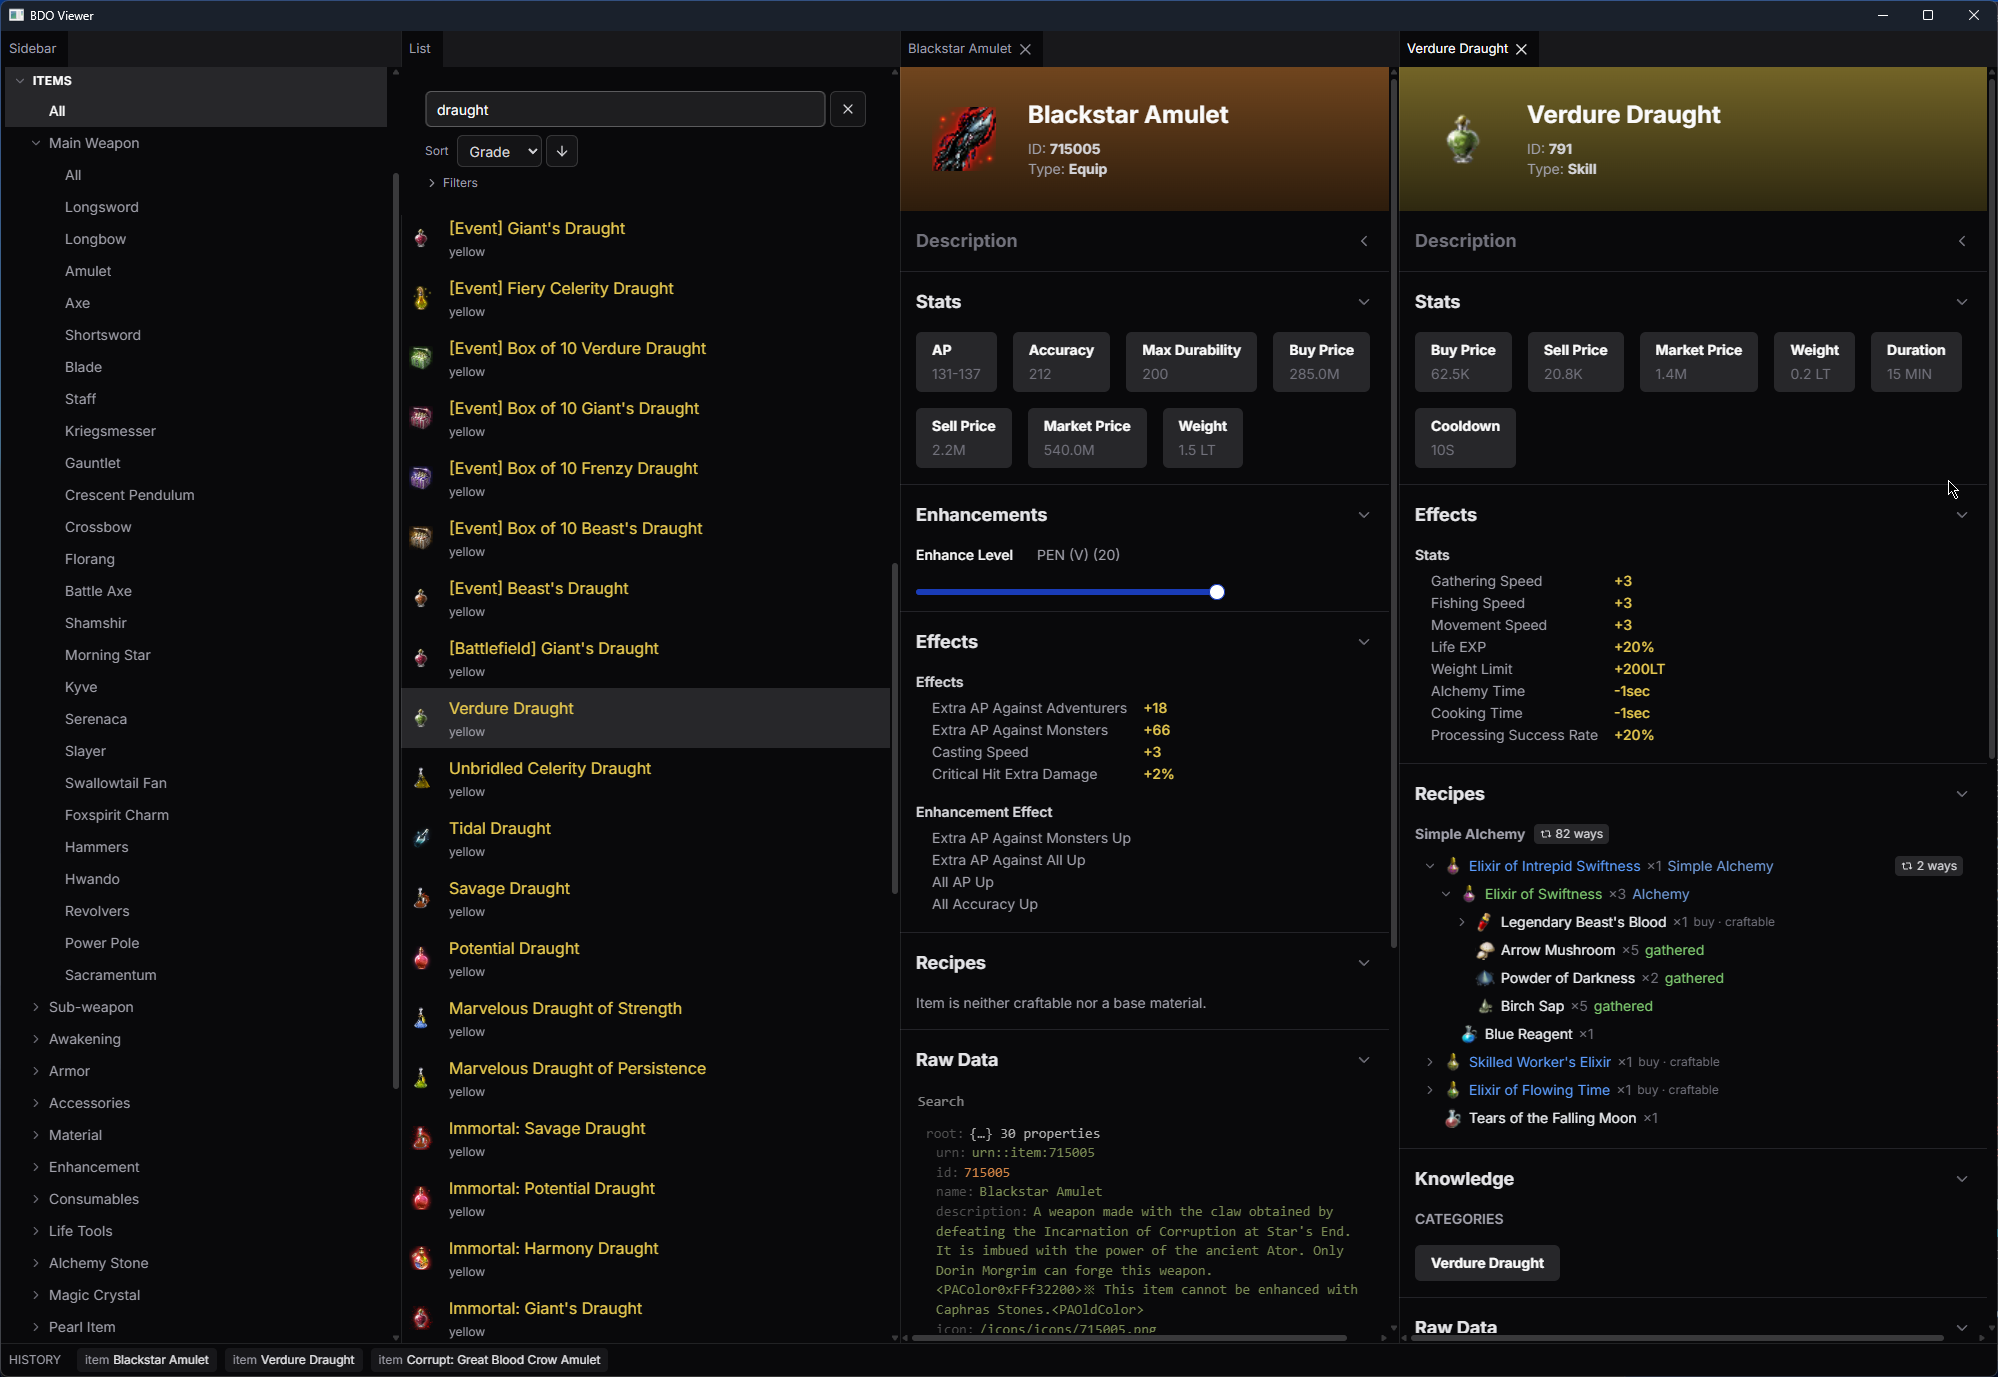
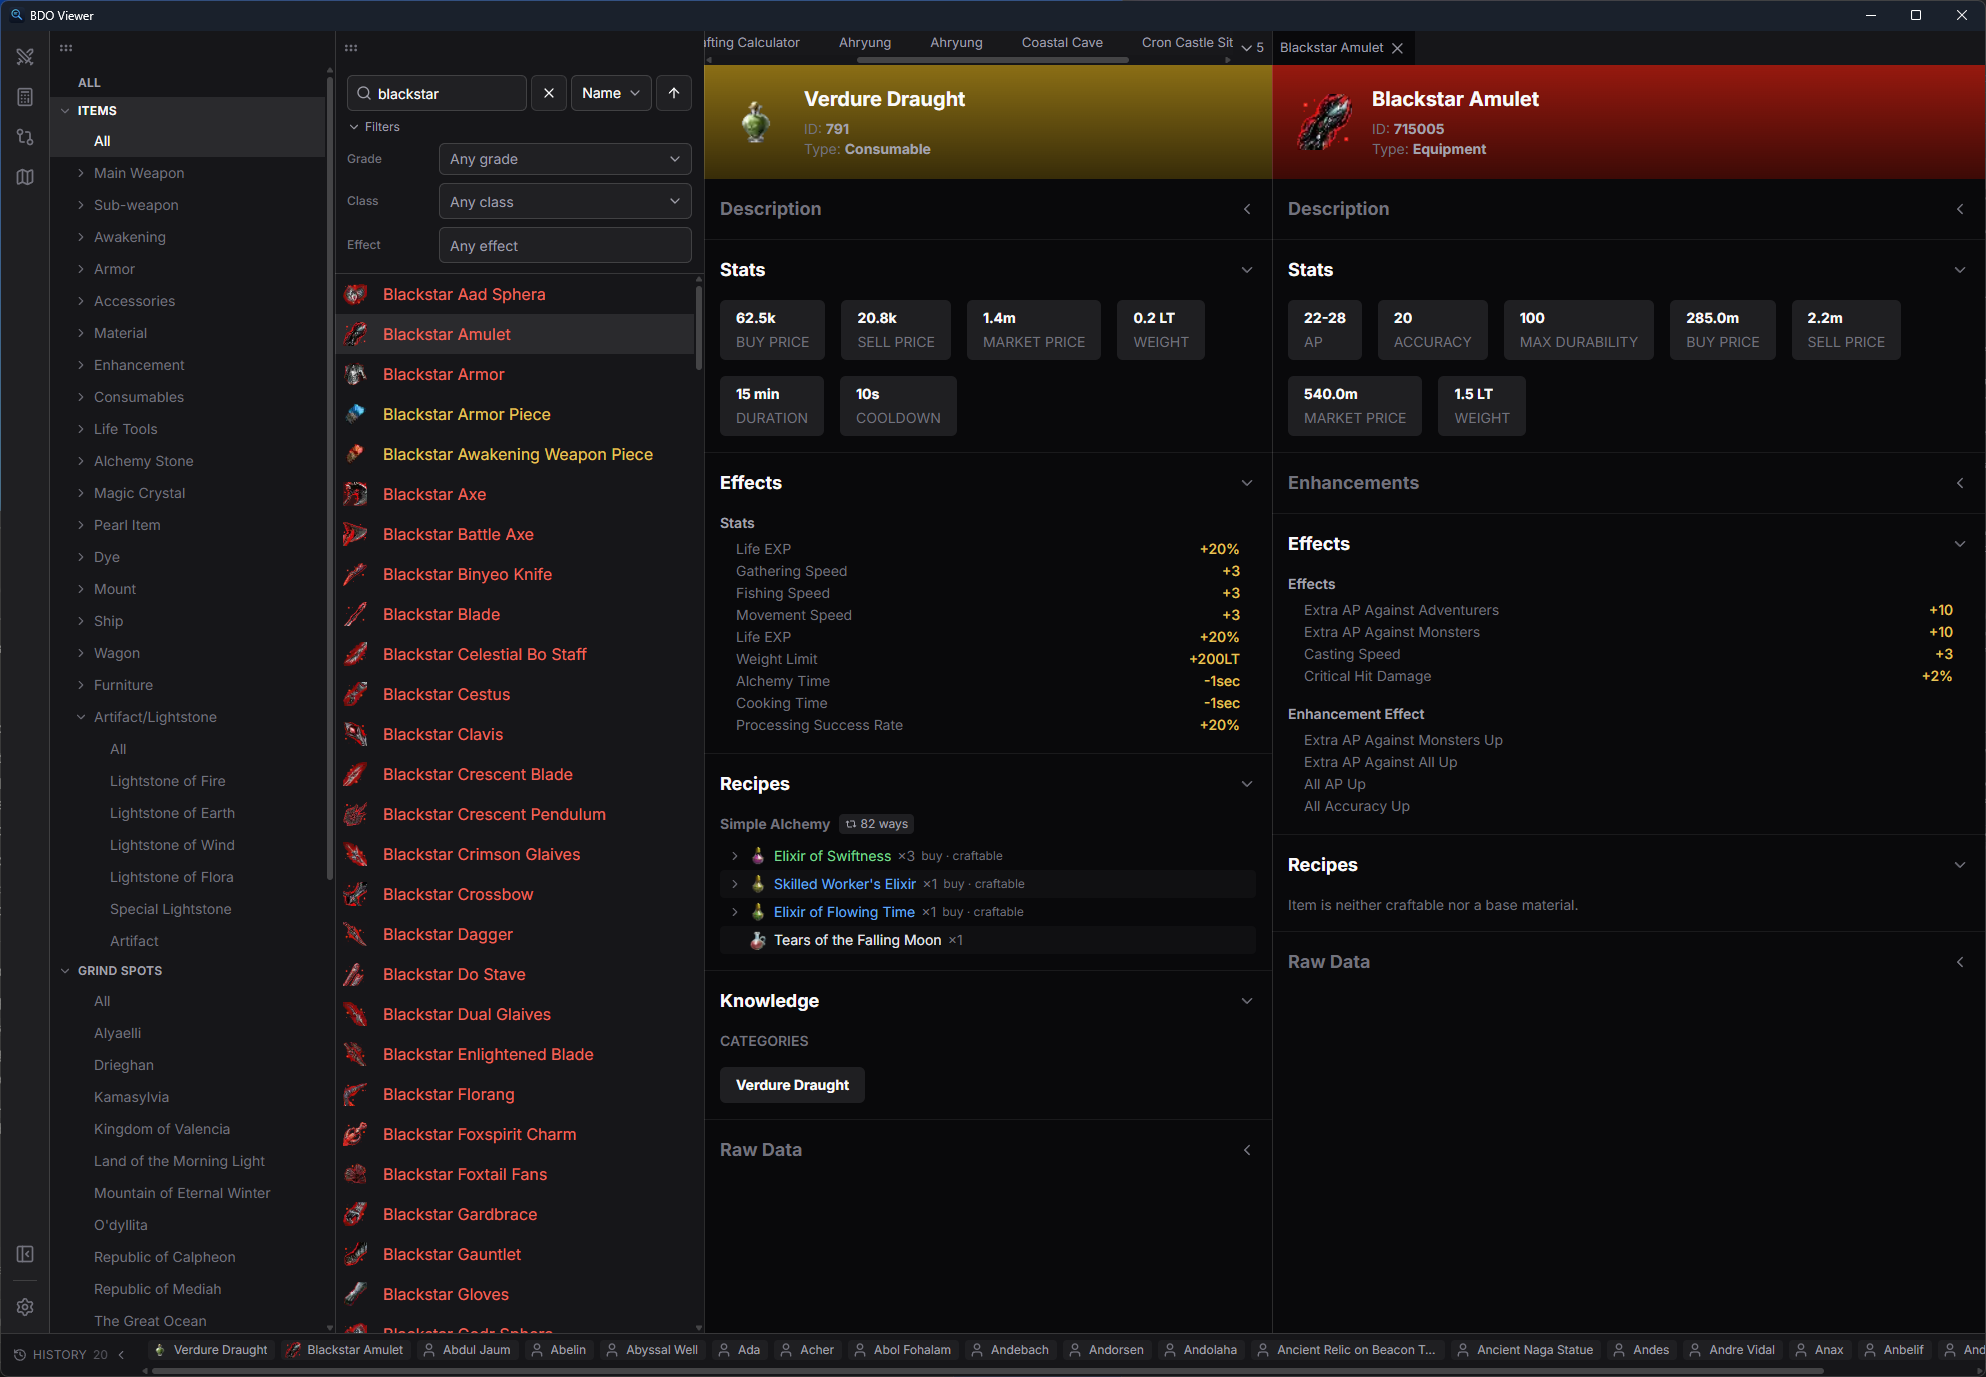
Update images and minor tweaks

diff --git a/frontend/src/components/details/details-panel.tsx b/frontend/src/components/details/details-panel.tsx
@@ -1,6 +1,6 @@
 import {IDockviewPanelProps} from "dockview-react";
 import {DetailsItem} from "@/components/details/details-item.tsx";
-import {DetailProvider, useDetail} from "@/state/detail.tsx";
+import {DetailProvider, useDetailStore} from "@/state/detail.tsx";
 import {SourceKind, UntypedSourceEntry} from "@bindings/bdo-viewer/internal/sources";
 import {type ComponentType, useCallback, useEffect, useRef, useState} from "react";
 import {useDebounce} from "@/utils.tsx";
@@ -9,22 +9,25 @@ import {NpcDetails} from "@/components/details/details-npc.tsx";
 import {KnowledgeDetails} from "@/components/details/details-knowledge.tsx";
 import {RegionDetails} from "@/components/details/details-region.tsx";
 import {CharacterDetails} from "@/components/details/details-character.tsx";
+import {useSnapshot} from "valtio/react";
 
 function DetailsPanelInner({entry, props}: { entry: UntypedSourceEntry, props: IDockviewPanelProps }) {
 
 	const containerRef = useRef<HTMLDivElement>(null);
 
-	const [details, d] = useDetail();
+	const d                       = useDetailStore();
+	const {scrollOffset, loading} = useSnapshot(d);
+
 
 	const restoreScroll = useCallback(() => {
 		if (containerRef.current) {
-			containerRef.current.scrollTop = details.scrollOffset;
+			containerRef.current.scrollTop = scrollOffset;
 		}
-	}, [details]);
+	}, [scrollOffset]);
 
 	// Persist only once scrolling settles; each write snapshots the whole detail store.
 	const saveScrollOffset = useDebounce((top: number) => {
-		details.scrollOffset = top;
+		d.scrollOffset = top;
 	}, 150);
 
 	useEffect(() => {
@@ -50,17 +53,18 @@ function DetailsPanelInner({entry, props}: { entry: UntypedSourceEntry, props: I
 	// firing a native scroll event that would otherwise stomp the saved
 	// offset. Re-apply it once the real content is back.
 	useEffect(() => {
-		if (!d.loading) {
+		if (!loading) {
 			restoreScroll();
 		}
-	}, [d.loading, restoreScroll]);
+	}, [loading, restoreScroll]);
 
-	if (d.loading) {
+	if (loading) {
 		return (
 			<div className="flex flex-col grow max-h-full overflow-auto">
-				<div className={"flex flex-row gap-8 items-center"}>
+				{/* Left empty because of flash, code too fast men */}
+				{/* <div className={"flex flex-row gap-8 items-center"}>
 					Loading...
-				</div>
+				</div> */}
 			</div>
 		);
 	}
@@ -94,9 +98,8 @@ function DetailsPanelInner({entry, props}: { entry: UntypedSourceEntry, props: I
 			data-source={entry.type}
 			data-urn={entry.urn}
 			onScroll={e => {
-				// Hiding a dockview tab resets scrollTop to 0 and fires a scroll event; the
-				// active guard stops that from debounce-saving 0 over the real offset.
-				if (d.loading || !props.api.isActive) return;
+				if (d.loading || !props.api.isActive)
+					return;
 				saveScrollOffset(e.currentTarget.scrollTop);
 			}}
 		>
@@ -132,7 +135,7 @@ export const DetailsPanel = (props: IDockviewPanelProps) => {
 		};
 	}, [props.api]);
 
-	if(!props.params?.key || !props.params?.source || !props?.params?.urn) {
+	if (!props.params?.key || !props.params?.source || !props?.params?.urn) {
 		return (
 			<div className="flex flex-col grow max-h-full h-full w-full items-center justify-center overflow-auto p-8">
 				<p className={"text-fg text-lg"}>

diff --git a/frontend/src/components/details/details-grindspot.tsx b/frontend/src/components/details/details-grindspot.tsx
@@ -5,7 +5,7 @@ import {MapPinIcon} from "lucide-react";
 import {openMapAt, openMapAtNode} from "@/state/panels.ts";
 import {useSnapshot} from "valtio/react";
 import {isGrindSpot} from "@/state/sources/sources.ts";
-import {GameText} from "@/lib/game-text.tsx";
+import {GameText, plainGameText} from "@/lib/game-text.tsx";
 
 export function GrindSpotDetails() {
 	const {entry} = useSnapshot(useDetailStore());
@@ -88,7 +88,7 @@ export function GrindSpotDetails() {
 								/* Should be displayed as a card, rather than chip, with title and desc on separate lines */
 								<div key={t.id} className={"flex flex-col gap-1 p-2 border rounded-md"}>
 									<div className={"text-sm font-semibold"}>{t.name}</div>
-									<GameText text={t.desc?.replace("Title Requirement: ", "")} className={"text-xs text-fg-subtle"} />
+									<GameText text={plainGameText(t.desc)?.replace("Title Requirement: ", "")} className={"text-xs text-fg-subtle"} />
 								</div>
 							))}
 						</div>

diff --git a/frontend/src/app.css b/frontend/src/app.css
@@ -283,7 +283,7 @@ html, body, #root {
  * of one flat wall. Panel roots are transparent, so the group background does the work.
  */
 .bdo-layout-v2 {
-    --dv-tabs-and-actions-container-height: 24px;
+    --dv-tabs-and-actions-container-height: 34px;
     --dv-group-view-background-color: var(--surface-0);
     --dv-tabs-and-actions-container-background-color: var(--surface-1);
     --dv-separator-border: var(--surface-border);
